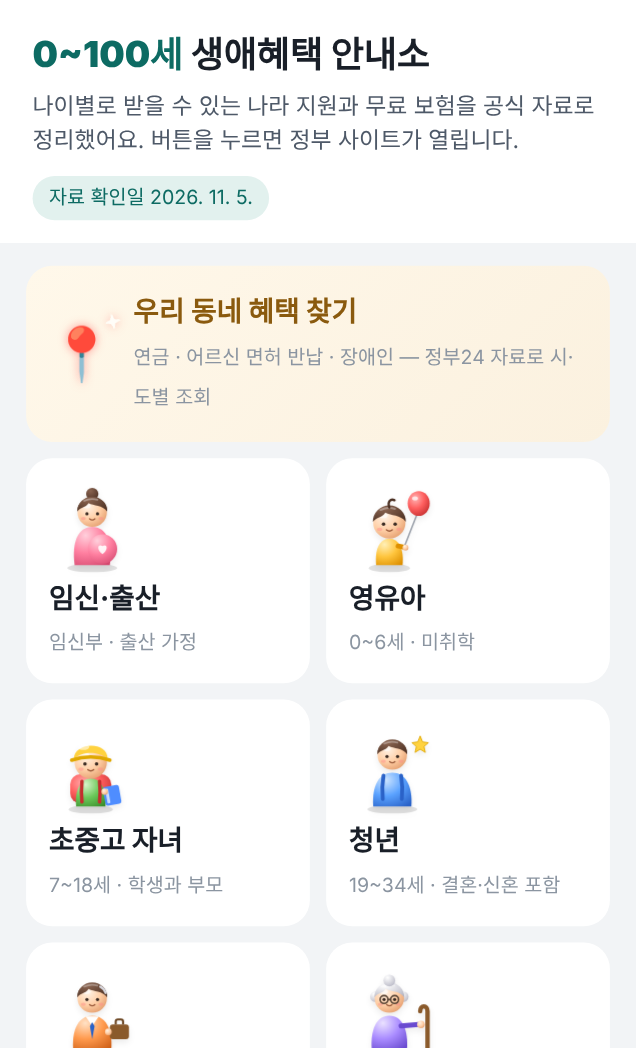
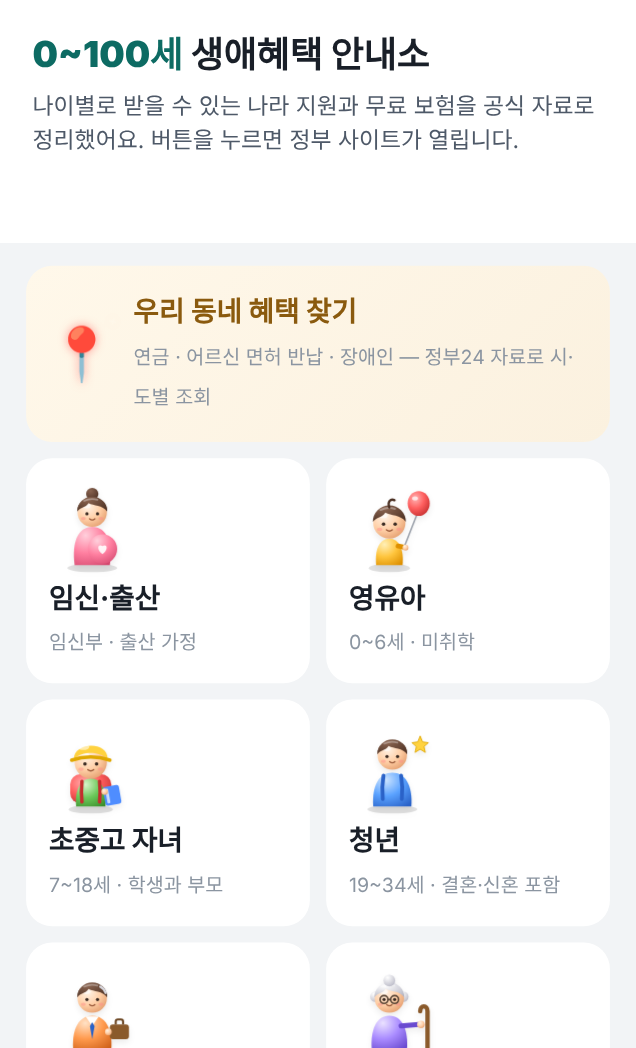
미리보기 캡처에서 날짜 숨김 + 인수인계
Claude-Session: https://claude.ai/code/session_01Nk3GpSj2uuwa9zQrPma6nD

Changed region(s): [[0.0299, 0.1527, 0.4182, 0.2137]]

diff --git a/HANDOFF.md b/HANDOFF.md
@@ -2,6 +2,11 @@
 
 새 대화에서 이 파일부터 읽고 이어서 작업해요.
 
+## 11/5 15:15 — v0.5.1 출시됨(사장님 14:08) + 콘솔 미리보기 캡처 최신화
+- 콘솔 '앱 출시 → 앱 정보 수정 → 2 카테고리 및 노출 → 미리보기 및 스크린샷'. 새 캡처 `release/store/생애혜택안내소-미리보기-1~3-*.png`(636×1048).
+- ⚠ 사장님 원칙: 미리보기는 늘 최신으로. 고정 그림이라 날짜가 박히면 멈춰 보이므로 캡처할 때 날짜(.stamp)는 숨김(앱 안 날짜는 그대로 매일 바뀜). 화면이 바뀌는 버전마다 다시 캡처해 드릴 것. 캡처 방법: preview 빌드 → playwright 390×643 @636/390 배율, github 데이터 요청은 저장소 docs/data로 대체, HIDE CSS로 날짜 숨김.
+- 키워드 추가 제안: 문화누리카드·에너지바우처.
+
 ## 11/5 오후 — v0.5.1: 리뷰 요청·마감 알림 신청·카톡 공유 이미지 (앱인토스 웨비나 '혼자 만든 미니앱으로 하루 150만원' 정리대로)
 - `src/growth.ts` 새로. 리뷰 요청(Review.request): 정부 사이트 다녀와서 돌아온 순간(resume kind='gov')·가족 공유 성공 직후. 한 세션 1번, 30일 1번, 2번째 방문부터. 노출 여부에 흐름 안 묶음(개발자센터 규칙).
 - 마감 알림 신청(Notification.requestAgreement): 홈 '지금 꼭 확인할 변경 사항'의 문화누리카드(11/30)·에너지바우처(12/31)에 '🔔 마감 전에 알림 받기' 버튼. `ALERT_CODES`가 비어 있으면 버튼 안 보임 → 사장님이 콘솔 푸시알림에서 템플릿(기능성·알림 동의문 포함, 발송 코드 'saengae-benefit-…', 토스에 1회 발송 요청: 마감 3일 전 오전) 만들고 검수 통과하면 코드 넣고 다음 번들. ⚠ 푸시는 기능성만 가능 — '혜택 안내·이용 유도'는 광고성이라 불가(개발자센터 푸시알림 가이드). 그래서 '사용자가 신청한 마감 알림'으로만 설계.
